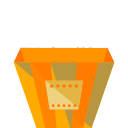
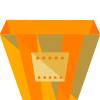
Added and fixed elements: *added status bar *added removing tooth after collision with burned popcorn *fixed collision detector

diff --git a/game/game.js b/game/game.js
@@ -1,36 +1,36 @@
-function startGameCountdown() {
+function startGame() {
     var $gameCount = $('#gameCount'),
         timeleft = 3;
 
-    var downloadTimer = setInterval(function(){
+    var downloadTimer = setInterval(function () {
         timeleft--;
         $gameCount.text(timeleft);
 
-        if(timeleft <= 0) {
+        if (timeleft <= 0) {
             clearInterval(downloadTimer);
-            $gameCount.text('START!!!');
+            $gameCount.text('START');
 
             setTimeout(function () {
                 $gameCount.remove();
                 game();
             }, 1000);
         }
-    },1000);
+    }, 1000);
 }
 
 function bucketMove() {
     var $gameArea = $('#gameArea'),
         $player = $('#player'),
-        gameWidth = $gameArea.width();
+        $gameWidth = $gameArea.width();
     // gameHeight = $gameArea.height();
 
     // $(window).resize(function () {
-    //     gameWidth = $gameArea.width();
-    //     gameHeight = $gameArea.height();
+    //     $gameWidth = $gameArea.width();
+    //     $gameHeight = $gameArea.height();
     // });
 
     $player.css({
-        left: gameWidth / 2 - 50
+        left: $gameWidth / 2 - 50
     });
 
     $gameArea.mousemove(function (event) {
@@ -43,12 +43,14 @@ function bucketMove() {
 
 function popcornGenerator(fallingTime, numberOfPopcorn) {
     var $popcorn = $();
-    
+
     for (var i = 0; i < numberOfPopcorn; ++i) {
         var $popcornDiv = $('<div class="popcornDefault"></div>');
 
         $popcornDiv.css({
-            'left': Math.floor(Math.random() * $('#gameArea').width()) + 'px'
+            'left': 20 + Math.floor(Math.random() * ($('#gameArea').width() - 100)) + 'px'
+            // 'left': $('#gameArea').width() - 70 + 'px'
+            // 'left': 0 + 'px'
         });
 
         $popcorn = $popcorn.add($popcornDiv);
@@ -57,22 +59,24 @@ function popcornGenerator(fallingTime, numberOfPopcorn) {
     $('#gameArea').append($popcorn);
 
     $popcorn.animate({
-        top: $('#gameArea').height() + 'px'
-    }, fallingTime, 'linear', function(){
+        top: $('#gameArea').height() - 60 + 'px'
+    }, fallingTime, 'linear', function () {
         $(this).remove();
     });
 }
 
 function burnedPopcornGenerator() {
     var burnedPopcorn = $(),
-        randomFallingTime = Math.floor(Math.random() * 2000),
-        randomNumberOfPopcorn = Math.floor(Math.random() * 7);
+        randomFallingTime = Math.floor(Math.random() * 2000 + 500),
+        randomNumberOfPopcorn = Math.floor(Math.random() * 3);
 
     for (var i = 0; i < randomNumberOfPopcorn; ++i) {
         var $burnedPopcornDiv = $('<div class="popcornBurned"></div>');
 
         $burnedPopcornDiv.css({
-            'left': Math.floor(Math.random() * $('#gameArea').width()) + 'px'
+            'left': 20 + Math.floor(Math.random() * ($('#gameArea').width() - 50)) + 'px'
+            // 'left': $('#gameArea').width() - 50 + 'px'
+            // 'left': 200 + 'px'
         });
 
         burnedPopcorn = burnedPopcorn.add($burnedPopcornDiv);
@@ -81,8 +85,8 @@ function burnedPopcornGenerator() {
     $('#gameArea').append(burnedPopcorn);
 
     burnedPopcorn.animate({
-        top: $('#gameArea').height() + 'px'
-    }, randomFallingTime, 'linear', function(){
+        top: $('#gameArea').height() - 40 + 'px'
+    }, randomFallingTime, 'linear', function () {
         $(this).remove();
     });
 }
@@ -92,14 +96,18 @@ function fallingPopcorn() {
 
     function level(fallingTime, numberOfPopcorn, frequency) {
         popcornGenerator(fallingTime, numberOfPopcorn);
-        popcornInterval = setInterval(function () {popcornGenerator(fallingTime, numberOfPopcorn);}, frequency);
+        popcornInterval = setInterval(function () {
+            popcornGenerator(fallingTime, numberOfPopcorn);
+        }, frequency);
     }
 
     function burned() {
-        var randomFrequency = Math.floor(Math.random() * 2000);
+        var randomFrequency = Math.floor(Math.random() * 1000 + 500);
 
         burnedPopcornGenerator();
-        setInterval(function () {burnedPopcornGenerator();}, randomFrequency);
+        setInterval(function () {
+            burnedPopcornGenerator();
+        }, randomFrequency);
     }
 
     function stop() {
@@ -133,44 +141,59 @@ function fallingPopcorn() {
     //BURNED POPCORN
 
     setTimeout(function () {
-        burned(1000, 2);
+        burned();
     }, 1000)
 }
 
+function removeTooth() {
+    var $tooth = $('.tooth');
+
+    $tooth.each(function () {
+        $tooth.last().remove();
+    });
+}
+
 function colisionDetector() {
-    var playerPositionLeftCorner = $('#player').position().left + 10,
-        playerPositionRightCorner = $('#player').position().left + 90,
-        playerPositionTop = $('#player').position().top;
+    var $playerPositionLeftCorner = $('#player').position().left + 5,
+        $playerPositionRightCorner = $('#player').position().left + 95,
+        $playerPositionTop = $('#player').position().top;
 
     $('.popcornDefault').each(function () {
         var $popcorn = $(this),
-            popcornPositionCenter = $popcorn.position().left + 25,
-            popcornPositionBottom = $popcorn.position().top - 50;
+            $popcornPositionCenter = $popcorn.position().left + 25,
+            $popcornPositionBottom = $popcorn.position().top + 15;
 
-        if (playerPositionLeftCorner <= popcornPositionCenter && popcornPositionCenter <= playerPositionRightCorner && popcornPositionBottom > playerPositionTop) {
+        // console.log('left: ' + $playerPositionLeftCorner + ' center: ' + $popcornPositionCenter + ' right: ' + $playerPositionRightCorner);
 
+        if ($playerPositionLeftCorner <= $popcornPositionCenter && $popcornPositionCenter <= $playerPositionRightCorner && $popcornPositionBottom > $playerPositionTop) {
             // tutaj kodujemy to co dzieje się po złapaniu popcornu
-            console.log('złapany')
+            console.log('złapany');
+            $popcorn.remove();
+        } else {
+
         }
     });
 
     $('.popcornBurned').each(function () {
         var $popcornBurned = $(this),
-            burnedPopcornPositionCenter = $popcornBurned.position().left + 15,
-            burnedPopcornPositionBottom = $popcornBurned.position().top - 30;
+            $burnedPopcornPositionCenter = $popcornBurned.position().left + 15,
+            $burnedPopcornPositionBottom = $popcornBurned.position().top;
 
-        if (playerPositionLeftCorner <= burnedPopcornPositionCenter && burnedPopcornPositionCenter <= playerPositionRightCorner && burnedPopcornPositionBottom > playerPositionTop) {
+        // console.log('left: ' + $playerPositionLeftCorner + ' center: ' + $burnedPopcornPositionCenter + ' right: ' + $playerPositionRightCorner);
 
+        if ($playerPositionLeftCorner <= $burnedPopcornPositionCenter && $burnedPopcornPositionCenter <= $playerPositionRightCorner && $burnedPopcornPositionBottom > $playerPositionTop) {
             // tutaj kodujemy co dzieje się po złapaniu spalonego popcornu
-            console.log('spalony')
+            console.log('spalony');
+            $popcornBurned.remove();
+            removeTooth();
         }
     });
 }
 
 function game() {
-    bucketMove();
     fallingPopcorn();
-    setInterval(colisionDetector, 50);
+    bucketMove();
+    setInterval(colisionDetector, 10);
 }
 
-startGameCountdown();
+startGame();

diff --git a/game/game.css b/game/game.css
@@ -7,33 +7,40 @@
     display: flex;
     align-items: center;
     justify-content: center;
-    font-size: 10em;
-    font-family: sans-serif;
+    font-size: 15em;
+    font-family: 'Lato', sans-serif;
     position: absolute;
     background: #ff8619;
     width: 100%;
     height: 100vh;
     color: #070400;
-    z-index: 3;
+    z-index: 4;
 }
 
 #game {
+    background: transparent;
+    border: 20px solid black;
+    width: 100%;
+    height: 100vh;
+}
+
+#gameBackground {
     background-repeat: no-repeat;
     background-size: cover;
     background-image: url("images/background2.jpg");
     opacity: 0.5;
-    /*background: #868686;*/
     width: 100%;
-    height: 100vh;
+    height: 100%;
 }
 
 #gameArea {
-    width: 100%;
-    height: 100vh;
-    border: 20px solid black;
-    padding: 20px;
     position: absolute;
-    top: 0;
+    width: 100%;
+    height: 100%;
+    top: 0px;
+    /*left: 20px;*/
+    /*right: 20px;*/
+    /*bottom: 20px;*/
     z-index: 2;
 }
 
@@ -47,8 +54,6 @@
 }
 
 .popcornDefault, .popcornBurned {
-    top:50px;
-    left:0;
     position:absolute;
     z-index:1;
 }
@@ -65,4 +70,41 @@
     background-size: contain;
     width:30px;
     height:30px;
+}
+
+.statusBar {
+    height: 100px;
+    position: absolute;
+    top: 20px;
+    left: 20px;
+    right: 20px;
+    z-index: 3;
+    display: flex;
+    justify-content: space-between;
+    align-items: center;
+    background: rgba(0, 0, 0, 0.2);;
+}
+
+.teethBox {
+    display: flex;
+}
+
+.teethBox img {
+    height: 100px;
+}
+
+.score {
+    display: block;
+    font-family: 'Lato', sans-serif;
+    font-size: 5em;
+    position: absolute;
+    left: 50%;
+    transform: translateX(-50%);
+}
+
+.timer {
+    display: block;
+    font-family: 'Lato', sans-serif;
+    font-size: 2em;
+    margin-right: 10px;
 }

diff --git a/game/game.html b/game/game.html
@@ -7,14 +7,25 @@
 </head>
 <body>
     <div id="gameCount">3</div>
-    <div id="game"></div>
+    <div id="game">
+        <div id="gameBackground"></div>
+        <div class="statusBar">
+            <div class="teethBox">
+                <div class="tooth"><img src="images/tooth.png" alt="tooth"></div>
+                <div class="tooth"><img src="images/tooth.png" alt="tooth"></div>
+                <div class="tooth"><img src="images/tooth.png" alt="tooth"></div>
+            </div>
+            <div class="score">Score: <span id="score">0</span></div>
+            <div class="timer">Time: <span id="timer">120 sec</span></div>
+        </div>
+
+    </div>
     <div id="gameArea"></div>
     <div id="player"></div>
 <script
         src="https://code.jquery.com/jquery-3.3.1.js"
         integrity="sha256-2Kok7MbOyxpgUVvAk/HJ2jigOSYS2auK4Pfzbm7uH60="
         crossorigin="anonymous">
-
 </script>
 <script src="game.js"></script>
 </body>
